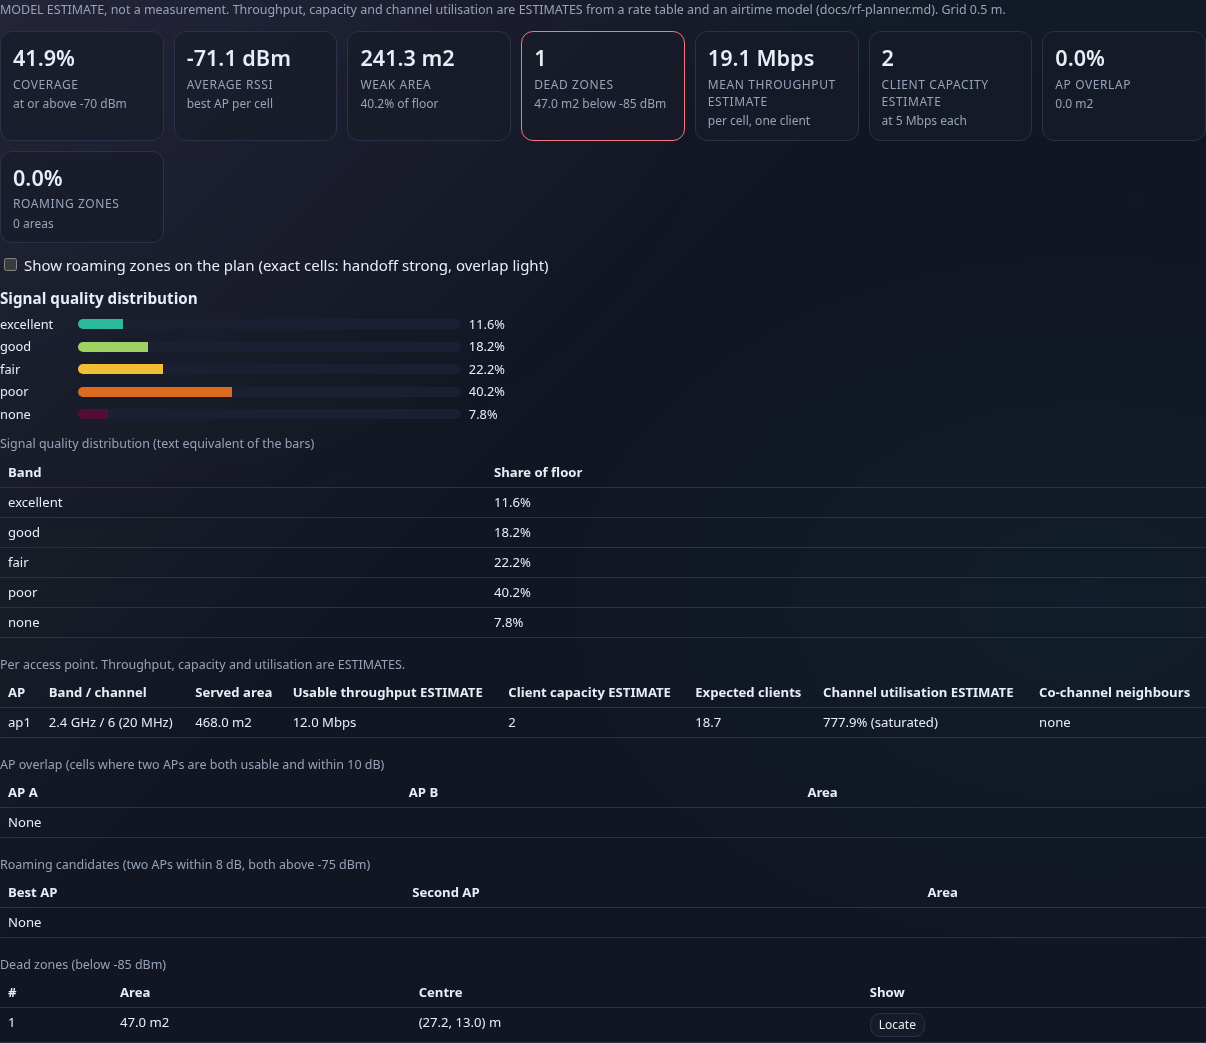
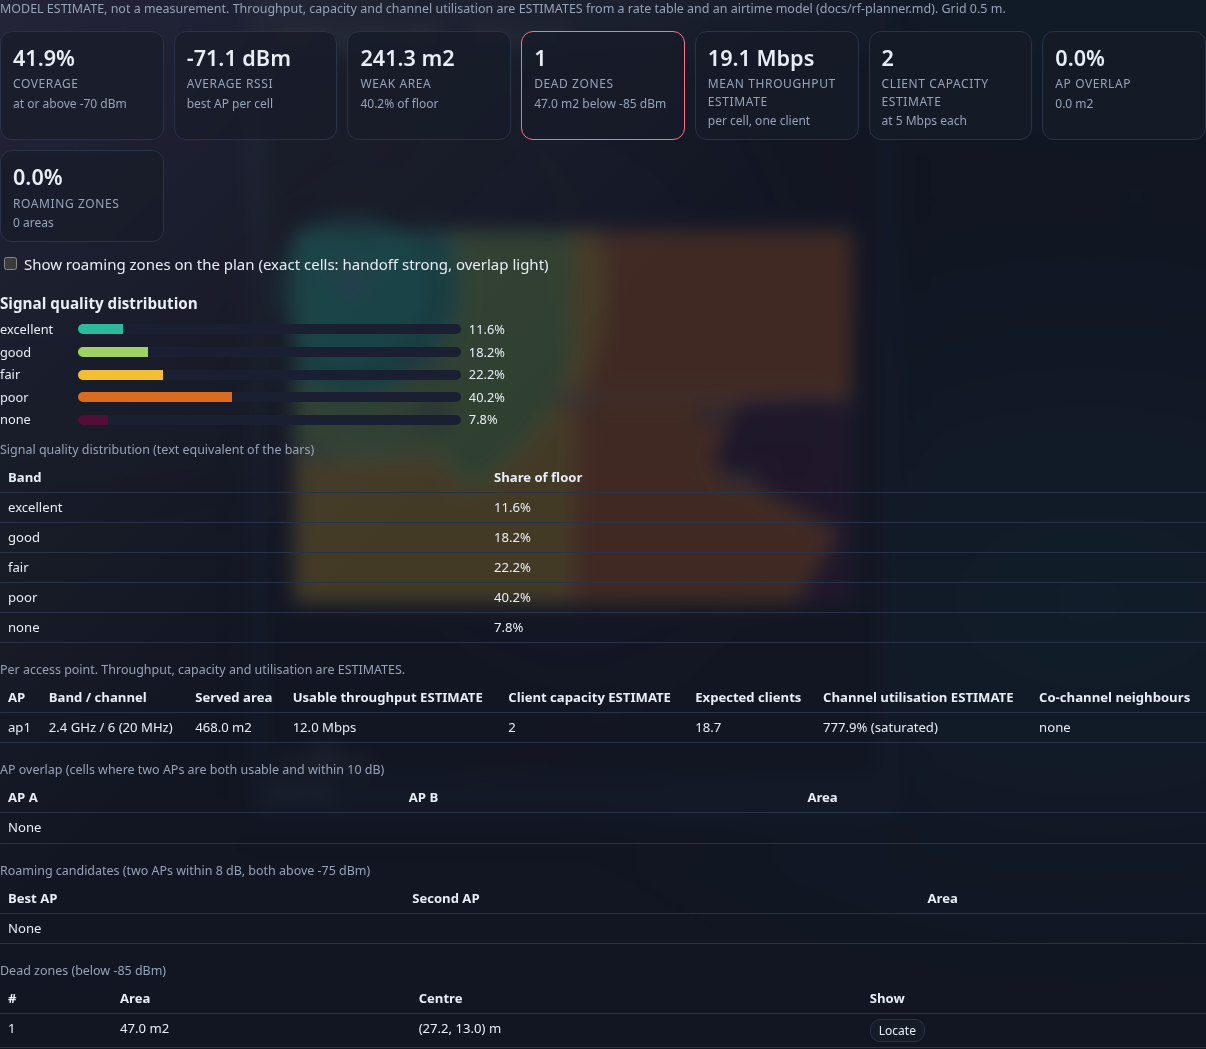
docs: regenerate screenshots and record the design polish

diff --git a/CHANGELOG.md b/CHANGELOG.md
@@ -2,6 +2,12 @@
 
 ## Unreleased
 
+### Design polish
+- style: form controls share one `:where()` rule, the focus ring is one token (`--ring`) instead of four duplicate rules, spacing and radius tokens added to `:root`, `accent-color`, thin scrollbars and text balancing (`style.css`).
+- style: planner map column stays in view while the long tool and control columns scroll (sticky, viewport-height stage); tool rows fill their width and the kind selects no longer overflow the column; the probe list is a grid instead of floats, so its empty state no longer wraps around the mini-map heading.
+- style: card headings get a divider; the RF intelligence card on the dashboard and the judge side card keep their own height instead of stretching into empty panels; score tiles fit five across.
+- docs: all screenshots in `docs/` regenerated. Verified: pytest (806), `tools/a11y_check.py` (0 serious or critical, live and demo), demo build. Looked at in headless Chromium only; the judge page status glyphs (check, half circle) rendered blank in this sandbox for lack of a symbol font, unchecked on real browsers.
+
 ### V2 reports, measurements, screenshots and accessibility
 - feat: PDF report gains network health, device recommendations and before and after what-if tables from the Timeline and what-if tab; CSV gains per-AP SINR rows (`planner-export.js`, `tests/test_planner_panels.py`).
 - fix: table scroll regions in the planner now have `tabindex`, `role=region` and a label (axe `scrollable-region-focusable`, found in the beams tab).
